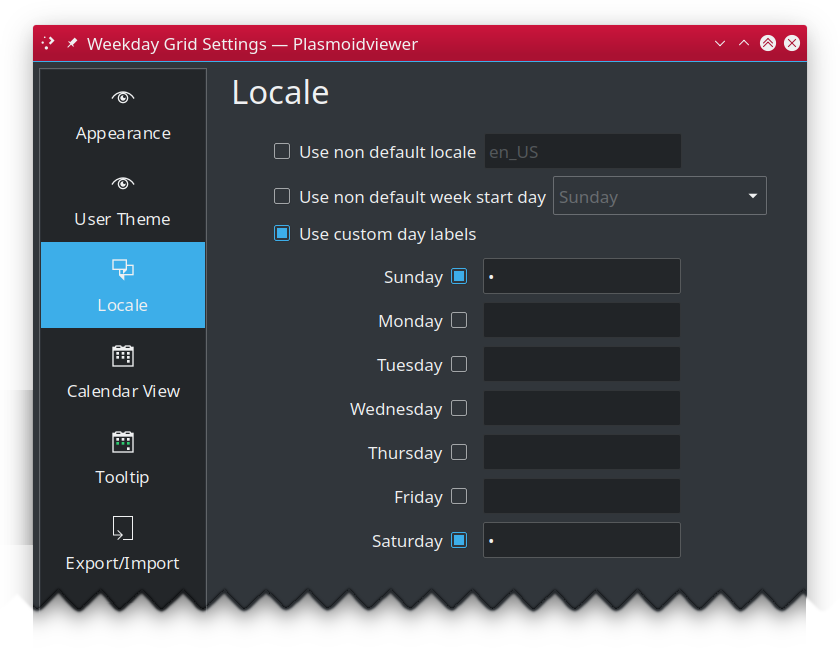
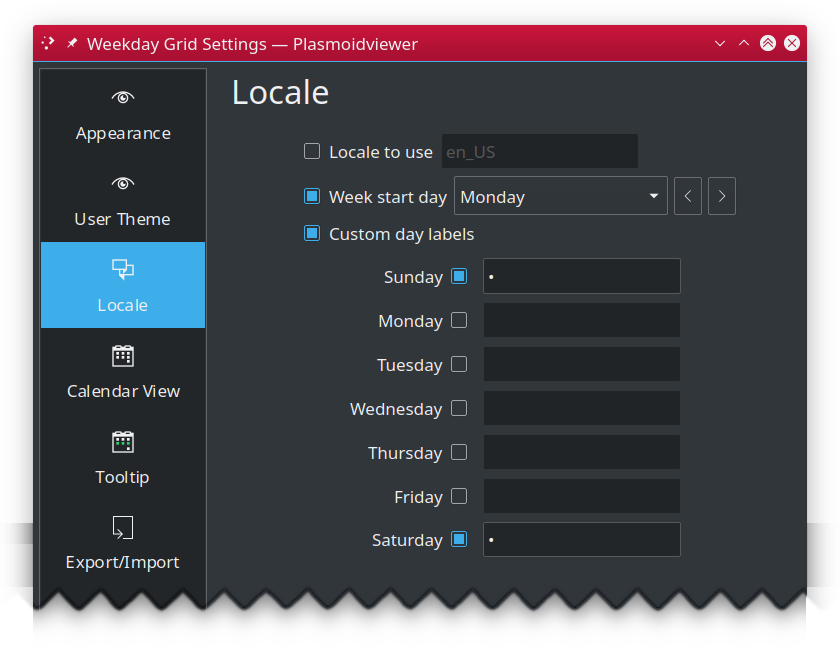
Updated docs

diff --git a/src/contents/ui/configLocale.qml b/src/contents/ui/configLocale.qml
@@ -44,21 +44,20 @@ Kirigami.FormLayout {
 	RowLayout {
 		CheckBox {
 			id: useSpecificLocaleEnabled
-			text: i18n("Use non default locale")
+			text: i18n("Locale to use")
 		}
 
 		TextField {
 			id: useSpecificLocaleLocaleName
 			enabled: cfg_useSpecificLocaleEnabled
 			placeholderText: "en_US"
-			Kirigami.FormData.label: i18n('Name of locale')
 		}
 	}
 
 	RowLayout {
 		CheckBox {
 			id: nonDefaultWeekStartDayEnabled
-			text: i18n("Use non default week start day")
+			text: i18n("Week start day")
 		}
 
 		DaySelector {
@@ -71,7 +70,7 @@ Kirigami.FormLayout {
 
 	CheckBox {
 		id: customDayLabelsEnabled
-		text: i18n("Use custom day labels")
+		text: i18n("Custom day labels")
 	}
 
 	Kirigami.FormLayout {

diff --git a/README.md b/README.md
@@ -130,10 +130,12 @@ Allows you to configure locale used by the widget.
 
 ![Locale](img/config-locale.png)
 
- * **Use non default locale**: system wide (`C`) locale is used to construct day labels. Enable this option and specify name of installed
-   locale (i.e. `en_US`) you want to be used for constructing day labels instead.
- * **Use non default week start day**: first day of the week is obtained from system or specified locale. Enable this option to set that day manually.
- * **Use custom day labels**: enable to use own labels for any of the week days. You can use any character (incl. unicode) that is supported by fonts you use.
+ * **Locale to use**: By default, the system wide locale settings are used while creating day labels. If you want to override this (i.e. have English
+   originated day labels while your whole system uses different language, enable this option and put name of locale of your choice (i.e. `pl` or `en_GB`).
+   Ensure such locale is available in your system.
+ * **Week start day**: By default, the first day of the week is obtained from system or specified locale, which usually means either Sunday or Monday,
+   depending on localization used. If you want to have it set differently, enable this option and set that day manually.
+ * **Custom day labels**: Enable this option to use own labels for any of the week days. You can use any character (incl. unicode) that is supported by fonts you use.
    * **Sunday**: enable to use own label for Sunday. Label can be one character only or empty string.
    * **Monday**: enable to use own label for Monday. Label can be one character only or empty string.
    * **Tuesday**: enable to use own label for Tuesday. Label can be one character only or empty string.
